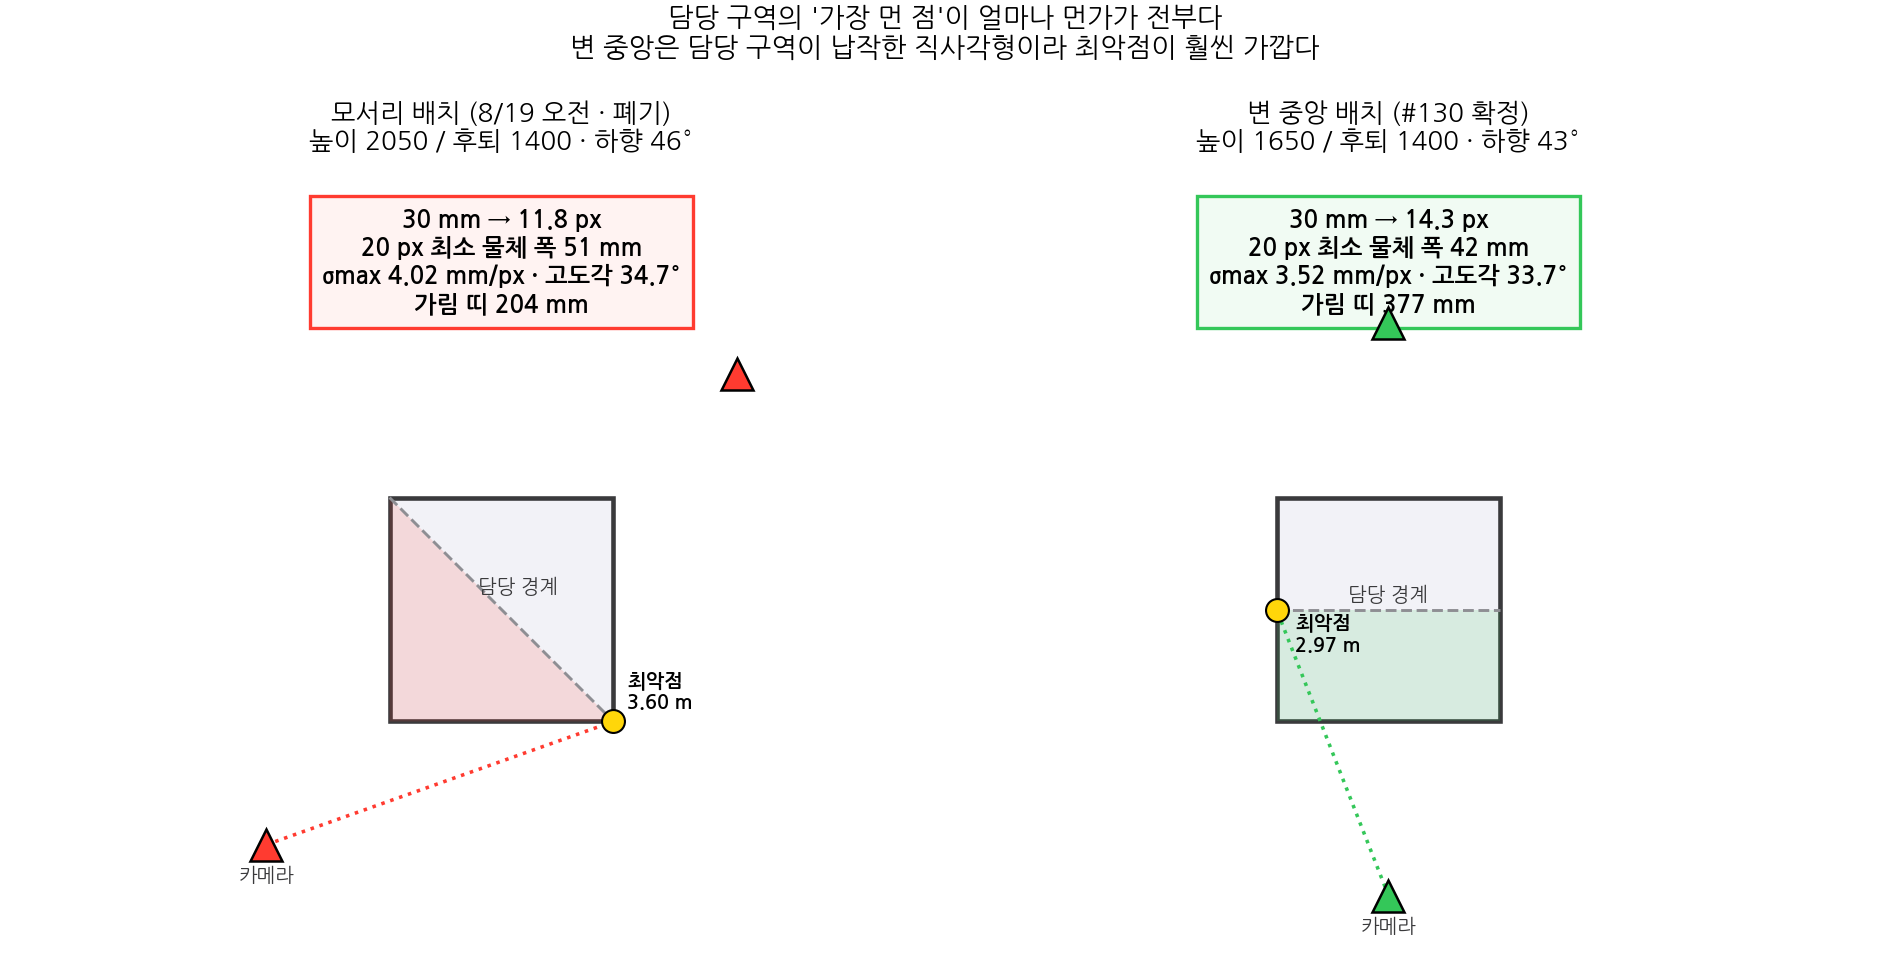
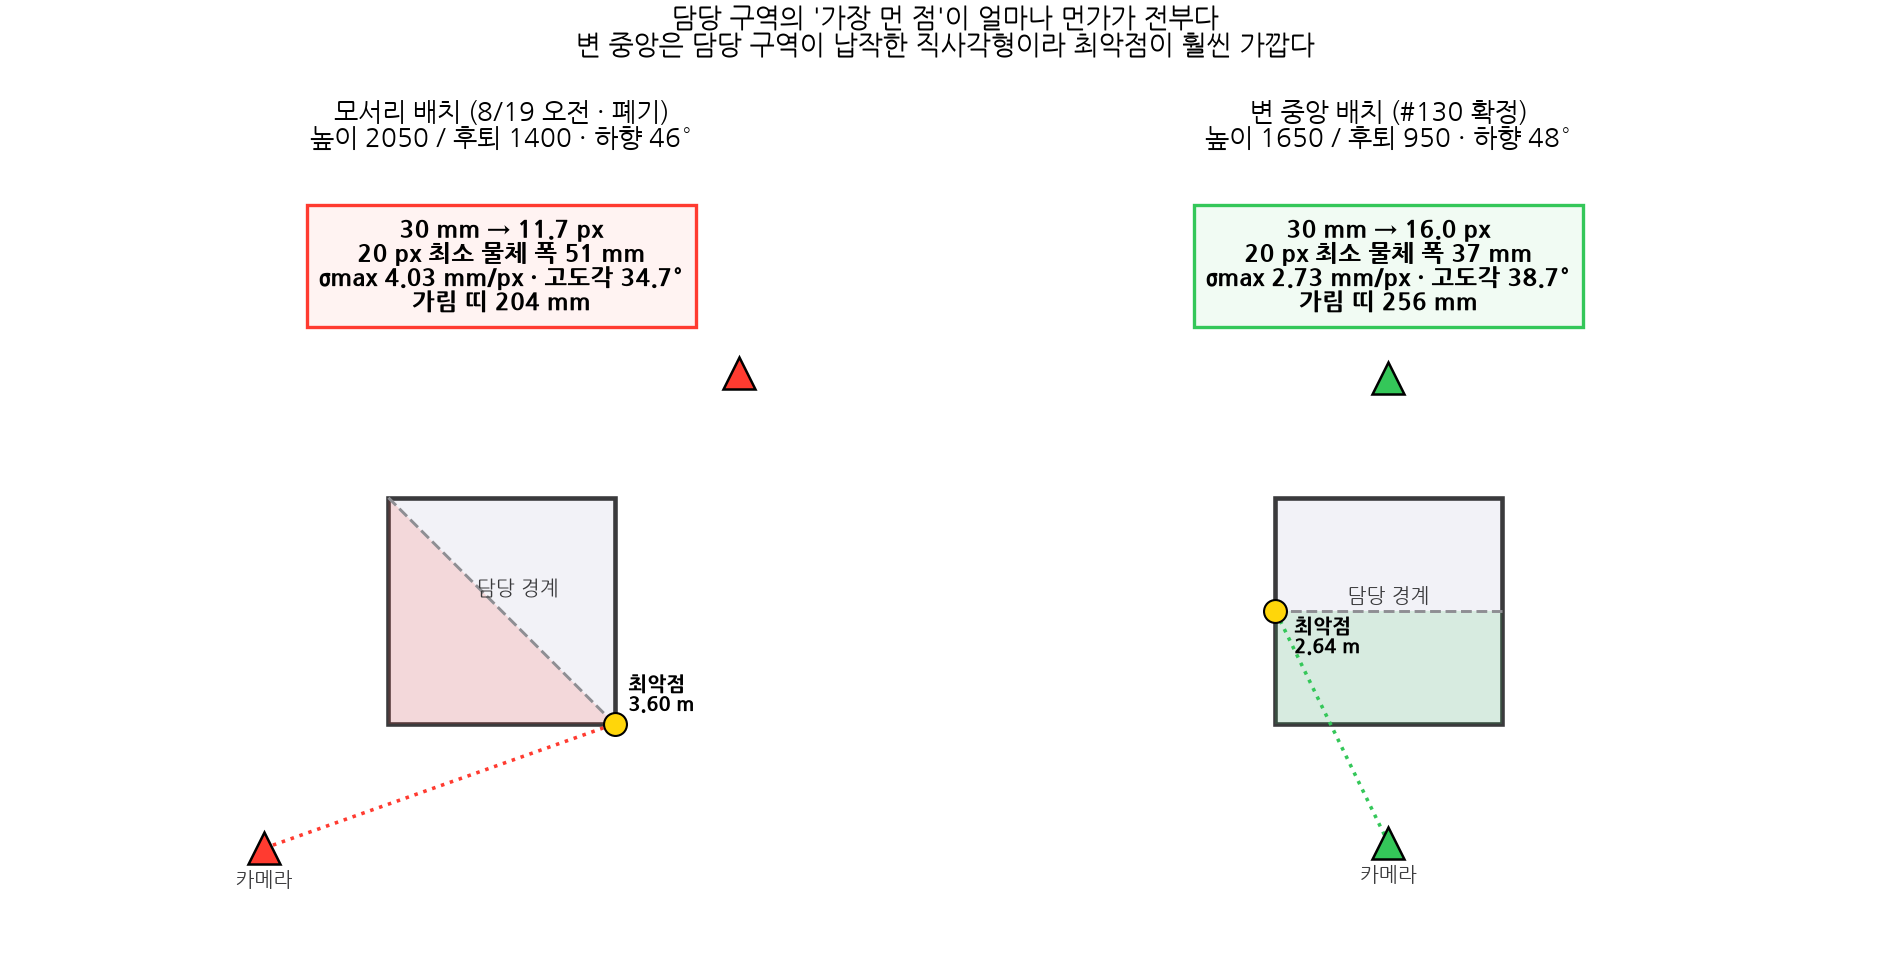
sysy009/tools/a2/sync to confirmed layout Rev.II

diff --git a/tools/a2/coverage_analysis.py b/tools/a2/coverage_analysis.py
@@ -48,21 +48,23 @@ def _warn_if_font_missing() -> None:
         )
 
 
-FOCAL_PX = 1411.0
+FOCAL_PX = 1410.0  # 배치도 Rev.I 실측 (HFOV 48.8° 환산 1411 과 반올림 차이)
 WORKSPACE_MM = 1800.0
 HALF_MM = WORKSPACE_MM / 2
-WALL_H_MM = 350.0
+WALL_H_MM = 350.0  # 보수적인 쪽. 배치도 Rev.I 는 탑뷰1 쪽 0.25 m / 탑뷰2 쪽 0.35 m
 U_LIMIT, V_LIMIT = 640.0, 360.0
 DETECT_PX = 20.0  # YOLO 가 안정적으로 무는 최소 물체 폭
-OBJ_MM = 30.0  # 현재 출력된 원기둥 지름
+OBJ_MM = 30.0  # 폐기된 옛 규격. 왜 50 mm 로 올렸는지의 근거라 그대로 둔다
 # 가벽이 만드는 사각지대는 **비용이지 제약이 아니다.**
 # 예전에 204 mm 를 feasibility 필터로 썼는데, 그 값은 폐기된 모서리 배치
 # (2050/1400)에서 우연히 나온 수치였을 뿐 독립적인 설계 요구가 아니었다.
-# 확정 배치(1650/1400)는 377 mm 라 그 필터로는 제외돼 버린다 — 같은 그림 안에서
+# 확정 배치(1650/950)는 256 mm 라 그 필터로는 제외돼 버린다 — 같은 그림 안에서
 # "탐색 결과"와 "권고안"이 다른 조건 위에 서게 된다. 그래서 필터를 걷고
 # 등고선으로 같이 그린다. 유일한 하드 제약은 FOV 다.
 BLIND_CONTOURS_MM = (150.0, 250.0, 350.0, 450.0)
-PICK = (1650.0, 1400.0)  # #130 확정 (높이, 변 중앙에서의 후퇴)
+PICK = (1650.0, 950.0)  # 배치도 Rev.I · 8/20 팀 확정 (높이, 변 중앙에서의 후퇴)
+PITCH_DEG = 44.1  # 확정 하향각 — 프레임 상단을 먼 울타리에 맞춘 값
+COVER_START_MM = 212.0  # 화각 전폭이 시작되는 지점. 그 앞은 마주보는 카메라가 덮는다
 CORNER_OLD = (2050.0, 1400.0)  # 8/19 오전에 검토했다가 폐기한 모서리 배치
 TALLER = (1900.0, 900.0)  # 더 높은 거치가 가능할 때의 대안 (#149 D3)
 OUT = Path(__file__).resolve().parents[2] / "docs" / "assets" / "vision"
@@ -87,9 +89,16 @@ def _rig(h: float, s: float, pitch_deg: float, layout: str):
 
 
 def duty_points(layout: str) -> list[tuple[float, float]]:
-    """프레임 안에 반드시 들어와야 하는 담당 구역의 귀퉁이."""
+    """프레임 안에 반드시 들어와야 하는 담당 구역의 귀퉁이.
+
+    변 중앙 배치는 **가까운 벽에 딱 붙은 귀퉁이를 요구하지 않는다.** 배치도 Rev.I
+    가 후퇴를 권고 1100 에서 950 mm 로 줄이면서 앞쪽 COVER_START_MM 를 포기하기로
+    확정했고, 그 안쪽은 마주보는 반대편 카메라가 덮는다. 이 전제를 빼면 확정 배치가
+    FOV 초과(max|u| 675/640)로 판정된다 — 예전 duty 정의가 그랬다.
+    """
     if layout == "edge":
-        return [(0.0, 0.0), (WORKSPACE_MM, 0.0), (0.0, HALF_MM), (WORKSPACE_MM, HALF_MM)]
+        y0 = COVER_START_MM
+        return [(0.0, y0), (WORKSPACE_MM, y0), (0.0, HALF_MM), (WORKSPACE_MM, HALF_MM)]
     return [(0.0, 0.0), (WORKSPACE_MM, 0.0), (0.0, WORKSPACE_MM)]
 
 
@@ -151,13 +160,15 @@ def blind_band(h: float, s: float, layout: str = "edge") -> float:
     return WALL_H_MM * d / (h - WALL_H_MM)
 
 
-def sigma_max(h: float, s: float, layout: str, x: float, y: float) -> float:
+def sigma_max(
+    h: float, s: float, layout: str, x: float, y: float, pitch_deg: float | None = None
+) -> float:
     """이미지→지면 사상 야코비안의 최대 특이값 [mm/px].
 
     클릭이 1 px 어긋났을 때 최악 방향으로 생기는 월드 오차다.
     흔히 쓰는 근사 slant/(f·sinθ) 보다 약 8% 작다.
     """
-    pitch = best_pitch(h, s, layout)[0]
+    pitch = best_pitch(h, s, layout)[0] if pitch_deg is None else pitch_deg
     center, right, down, fwd = _rig(h, s, pitch, layout)
     rot = np.vstack([right, down, fwd])
 
@@ -460,12 +471,19 @@ def sensitivity_table() -> None:
     h, s = PICK
     pitch, umax, vmax = best_pitch(h, s, "edge")
     print(
-        f"# 변 중앙 배치 h={h:.0f} s={s:.0f} · 하향 {pitch:.1f}° · "
-        f"max|u|={umax:.0f}/640 max|v|={vmax:.0f}/360 · 가림 띠 {blind_band(h, s):.0f} mm\n"
+        f"# 변 중앙 배치 h={h:.0f} s={s:.0f} · 하향 {pitch:.1f}° (확정 {PITCH_DEG}°) · "
+        f"max|u|={umax:.0f}/{U_LIMIT:.0f} max|v|={vmax:.0f}/{V_LIMIT:.0f} · "
+        f"가림 띠 {blind_band(h, s):.0f} mm"
     )
+    if not fits(h, s, "edge"):
+        print(
+            f"[!] 이 배치는 FOV 를 초과합니다 (max|u|={umax:.0f}/{U_LIMIT:.0f}). "
+            "아래 값은 참고용입니다 — duty_points 전제와 배치도를 대조하세요."
+        )
+    print()
     head = (
         f"{'지점':<24}{'슬랜트':>8}{'고도각':>8}{'σmax':>9}"
-        f"{'근사식':>9}{'3px':>8}{'30mm':>8}{'45mm':>8}"
+        f"{'근사식':>9}{'3px':>8}{'30mm':>8}{'50mm':>8}"
     )
     print(head)
     rows = [
@@ -477,7 +495,7 @@ def sensitivity_table() -> None:
     ]
     for name, x, y in rows:
         slant, elev = slant_elev(h, s, "edge", x, y)
-        sig = sigma_max(h, s, "edge", x, y)
+        sig = sigma_max(h, s, "edge", x, y, PITCH_DEG)
         approx = slant / (FOCAL_PX * math.sin(math.radians(elev)))
         print(
             f"{name:<24}{slant / 1000:8.2f}{elev:8.1f}{sig:9.2f}{approx:9.2f}"

diff --git a/tools/a2/a2_homography.py b/tools/a2/a2_homography.py
@@ -59,13 +59,13 @@ import numpy as np
 
 WORKSPACE_MM = 1800.0  # 가벽 35 x 45 cm x 16장으로 두른 내부 (8/19 실측)
 CAM_HEIGHT_MM = 1650.0  # 삼각대 최대 높이 (#130 확정 8/19). 고정값이다
-CAM_SETBACK_MM = 1400.0  # 마주보는 두 "변 중앙" 에서 바깥으로 후퇴 (#149 D3)
-FOCAL_PX = 1411.0  # f = (1280/2)/tan(24.4°) — C270 720p
-CAM_PITCH_DEG = 42.8  # 아래로 내려다보는 각
-WORST_SLANT_MM = 2970.0  # 최악점(담당 절반의 경계 모서리) 슬랜트
-WORST_ELEV_DEG = 33.7  # 최악점 고도각
-MIN_OBJECT_MM = 42.0  # 최악점에서 20 px 을 보장하는 최소 물체 폭 (#149 D1). 권고 50 mm
-GEOMETRY_NOTE = "C270 x2 · 720p · HFOV 48.8° · 마주보는 두 변 중앙 · 높이 1.65 m · 후퇴 1.40 m"
+CAM_SETBACK_MM = 950.0  # 마주보는 두 "변 중앙" 에서 바깥으로 후퇴 (#149 D3)
+FOCAL_PX = 1410.0  # 배치도 Rev.I 실측 (HFOV 48.8° 환산 1411 과 반올림 차이)
+CAM_PITCH_DEG = 44.1  # 아래로 내려다보는 각
+WORST_SLANT_MM = 2637.0  # 최악점(담당 절반의 경계 모서리) 슬랜트
+WORST_ELEV_DEG = 38.7  # 최악점 고도각
+MIN_OBJECT_MM = 37.0  # 최악점에서 20 px 을 보장하는 최소 물체 폭 (#149 D1). 권고 50 mm
+GEOMETRY_NOTE = "C270 x2 · 720p · HFOV 48.8° · 마주보는 두 변 중앙 · 높이 1.65 m · 후퇴 0.95 m"
 
 # 담당 구역: A 는 y in [0, 900], B 는 y in [900, 1800]. 경계는 두 대가 함께 본다.
 HALF_MM = WORKSPACE_MM / 2

diff --git a/tools/a2/README_A2.md b/tools/a2/README_A2.md
@@ -37,20 +37,20 @@ pip install matplotlib                   # 배치 계산 도구 (coverage_analys
 ```
    Y
    ↑
-   │                    ▲ B (900, 3200)
+   │                    ▲ B (900,2750)
    │  (0, 1800) ┌───────────────┐ (1800, 1800)
    │            │   B 담당      │
    │            ├───────────────┤  ← 담당 경계 y = 900
    │            │   A 담당      │
    │  (0, 0)    └───────────────┘ (1800, 0)
-   │                    ▲ A (900, -1400)
+   │                    ▲ A (900, -950)
    └──────────────────────────────→ X      (단위 mm)
 ```
 
 **카메라는 마주보는 두 "변 중앙" 바깥에 선다** (#130 확정 — "박스 전·후면 각 1대").
 모서리가 아니다 — 모서리에 두면 담당 구역이 삼각형이 되어 최악점이 멀어진다(§4·§6).
 
-좌표는 A 가 `(900, -1400)`, B 가 `(900, 3200)`, 높이 1650 mm 다.
+좌표는 A 가 `(900, -950)`, B 가 `(900, 2750)`, 높이 1650 mm 다.
 **x = 900 을 정확히 맞추는 것이 높이보다 중요하다** (§4 주의).
 
 A 는 `y ∈ [0, 900]`, B 는 `y ∈ [900, 1800]` 을 담당하고 경계는 둘 다 본다.
@@ -194,9 +194,9 @@ A · B 를 합쳐 하나의 마크다운을 만든다.
 
 ## 4. 픽셀 민감도 — 왜 20 mm 가 빠듯한가
 
-C270 ×2 · **마주보는 두 변 중앙 · 높이 1650 mm · 후퇴 1400 mm · 하향 42.8°** ·
-작업 공간 1.8 × 1.8 m · `f = 1411 px` 기준이다.
-(#130 확정. 표는 `python tools/a2/coverage_analysis.py` 로 언제든 다시 만든다.)
+C270 ×2 · **마주보는 두 변 중앙 · 높이 1650 mm · 후퇴 950 mm · 하향 44.1°** ·
+작업 공간 1.8 × 1.8 m · `f = 1410 px` 기준이다.
+(배치도 Rev.I 8/20 팀 확정. 표는 `python tools/a2/coverage_analysis.py` 로 언제든 다시 만든다.)
 
 > [!IMPORTANT]
 > **높이 1650 은 삼각대 최대치라 고정값이다.** 조절할 수 있는 건 후퇴뿐이고,
